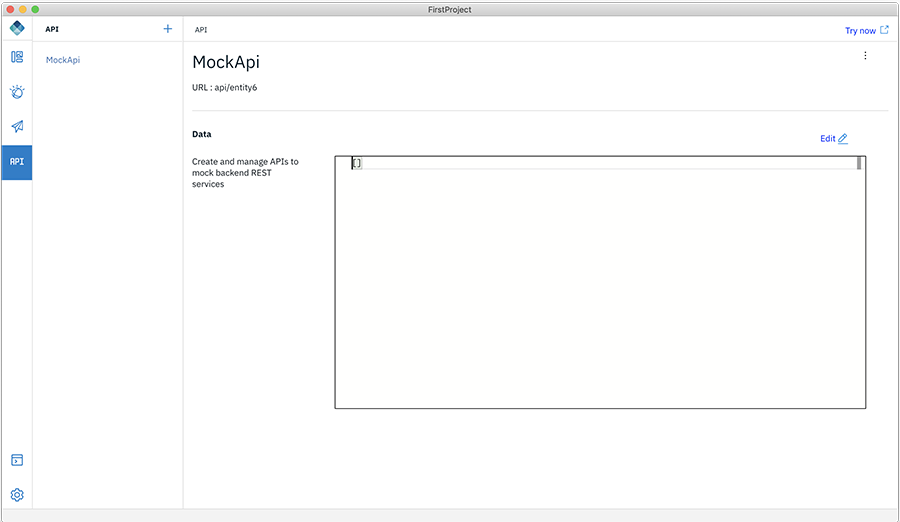
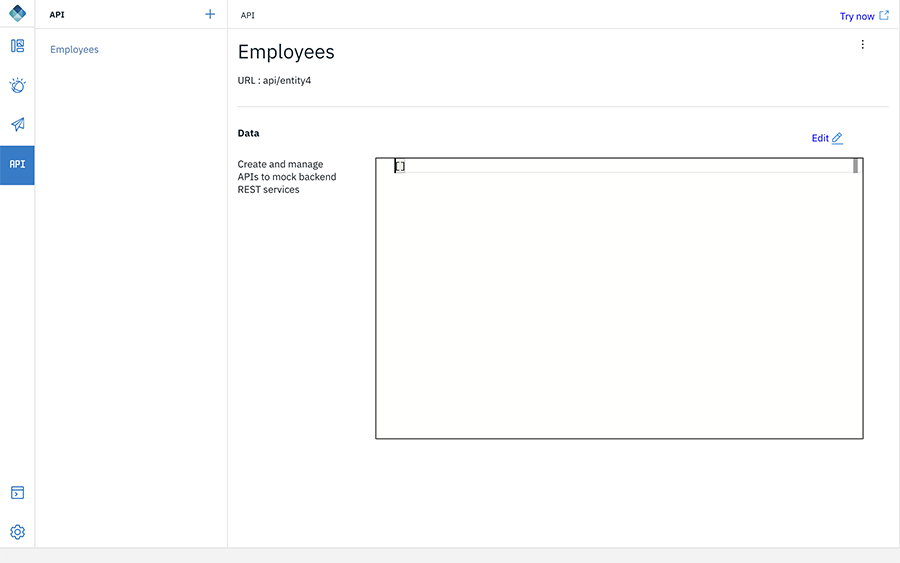
content update

diff --git a/tutorials/en/foundation/8.0/digital-app-builder/mock-api/index.md b/tutorials/en/foundation/8.0/digital-app-builder/mock-api/index.md
@@ -17,14 +17,12 @@ To create and manage APIs to mock backend REST services:
 
 1. Open your app project in Code mode 
 2. Select **API**. Click **Add an API**.
-
     ![Mock API](dab-mock-api.png)
-3. In the window that opens, enter a name for your API and click **Add**.
 
+3. In the window that opens, enter a name for your API and click **Add**.
     ![Mock API add](dab-new-mock-api.png)
 
 4. This will show the created API with the autogenerated URL. 
-
     ![Mock API jason](dab-new-mock-api-jason.png)
 
 5. Click **Edit**. Provide the data which you wanted to return on the invoking this API and click **Save**. For example, 
@@ -57,19 +55,18 @@ To create and manage APIs to mock backend REST services:
 2. Edit the code to modify the URL and point to the Mock API endpoint. For example,
 
     ```
-                var resourceRequest = new WLResourceRequest(
-                    "/adapters/APIProject/api/entity6",
-                    WLResourceRequest.GET,
-                    { "useAPIProxy": false }
-                );
-                resourceRequest.send().then(
-                    function(response) {
-                        alert("Success: " + response.responseText);
-                    },
-                    function(response) {
-                        alert("Failure: " + JSON.stringify(response));
-                    }
-                );
-
+     var resourceRequest = new WLResourceRequest(
+         "/adapters/APIProject/api/entity4",
+         WLResourceRequest.GET,
+         { "useAPIProxy": false }
+     );
+     resourceRequest.send().then(
+         function(response) {
+             alert("Success: " + response.responseText);
+         },
+         function(response) {
+             alert("Failure: " + JSON.stringify(response));
+         }
+     );
     ```
  

diff --git a/tutorials/en/foundation/8.0/digital-app-builder/faq/index.md b/tutorials/en/foundation/8.0/digital-app-builder/faq/index.md
@@ -15,7 +15,7 @@ This topic describes the list of commonly asked questions related to IBM Digital
     <div class="panel panel-default">
         <div class="panel-heading" role="tab" id="mfp-dab-faq1">
             <h4 class="panel-title">
-                <a role="button" data-toggle="collapse" data-parent="#mfp-dab-faqs" href="#collapse-mfp-dab-faq1" aria-expanded="true" aria-controls="collapse-mfp-dab-faq1"><b>A. How to create a **Platform API Keys**?</b></a>
+                <a role="button" data-toggle="collapse" data-parent="#mfp-dab-faqs" href="#collapse-mfp-dab-faq1" aria-expanded="true" aria-controls="collapse-mfp-dab-faq1"><b>A. How to create a Platform API Keys?</b></a>
             </h4>
         </div>
         <div id="collapse-mfp-dab-faq1" class="panel-collapse collapse" role="tabpanel" aria-labelledby="mfp-dab-faq1">
@@ -57,8 +57,9 @@ This topic describes the list of commonly asked questions related to IBM Digital
                   <p>You can completely uninstall Digital App Builder by the following steps:
                   <ol><li>Uninstall the Digital App Builder the regular way for each OS.</li>
                       <li>Delete the following files manually for your	OS.
-                      <ul><li>**Windows** - `Users\worklight\AppData\Roaming\IBM Digital App Builder`</li>
-                          <li>**MacOS** - `Users/<systemname>/Library/Application Support/IBM Digital App Builder`</li></li>
+                      <ul><li><b>Windows</b> - <i>Users\worklight\AppData\Roaming\IBM Digital App Builder</i></li>
+                          <li><b>MacOS</b> - <i>Users/&lt;systemname&gt;/Library/Application Support/IBM Digital App Builder</i></li>
+                      </ul></li>
                   </ol></p>
             </div>
         </div>      

diff --git a/tutorials/en/foundation/8.0/digital-app-builder/installation/index.md b/tutorials/en/foundation/8.0/digital-app-builder/installation/index.md
@@ -74,7 +74,7 @@ Digital App Builder can be installed on MacOS and Windows platform. The installa
 
     ![Digital App Builder startup](dab-install-startup-screen.png)
 
-    >**Note**: A short cut is also created in the **Start > Programs** in the desktop. The default installation folder is `<AppData>\Local\IBMDigitalAppBuilder\app-8.0.2`.
+    >**Note**: A short cut is also created in the **Start > Programs** in the desktop. The default installation folder is `<AppData>\Local\IBMDigitalAppBuilder\app-8.0.3`.
 
 8. *Optional* - The installer also checks for optional installation of Xcode (for previewing your app on iOS simulator during development, for MacOS only) and Android Studio (for previewing your Android app, for MacOS and Windows).
     >**Note**: Manually install Android Studio. For Android Studio installation, refer to [Installing Android Studio](https://developer.android.com/studio/). 
